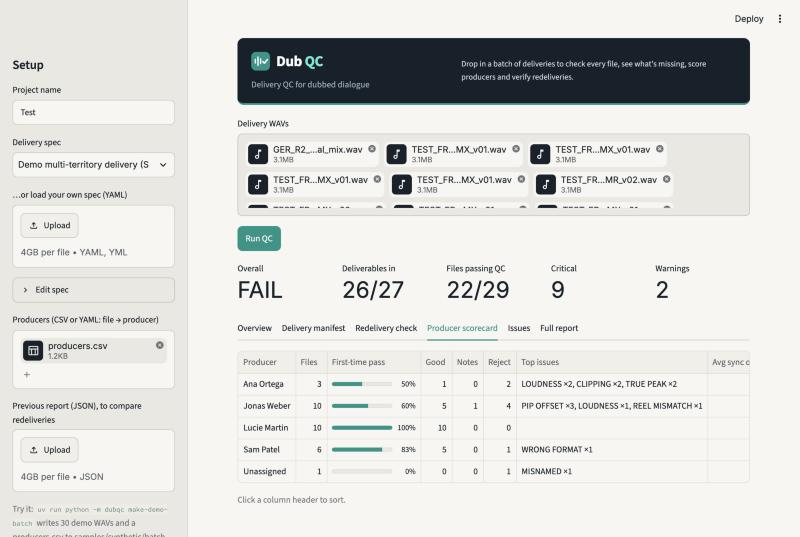
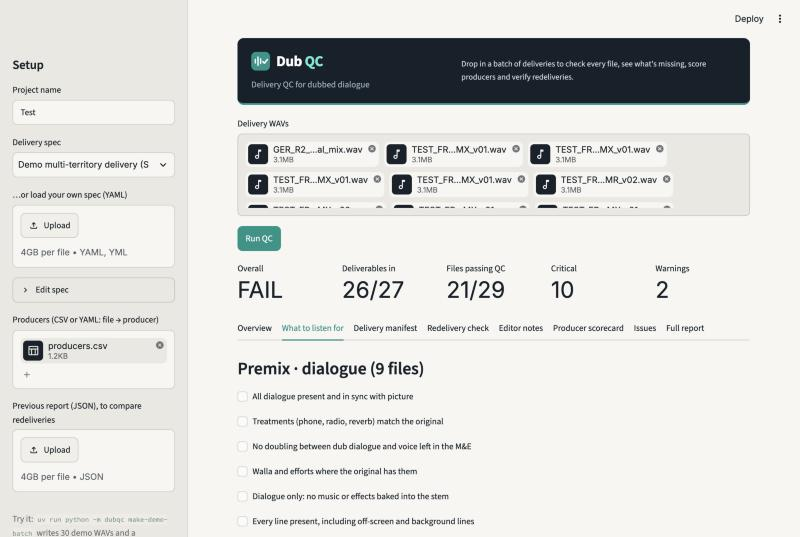
README: the QC workflow, new features, script check under Next up

diff --git a/README.md b/README.md
@@ -2,49 +2,59 @@
 
 **Delivery QC for dubbed dialogue.**
 
-Dub QC checks dubbed audio deliveries automatically and tells you, with timecodes, what's wrong, what's missing and who needs support. It replaces a manual listen-through, a QC checklist and a delivery-tracking spreadsheet.
+Dub QC runs the technical QC on a dubbed film's audio at every stage, from raw dialogue to final deliverables. It flags every problem with a timecode, tracks what's still outstanding across territories, versions and redeliveries, and tells whoever is doing the QC pass exactly where to listen.
 
-![Dub QC report for a 3-territory batch: delivery status by territory, manifest grid, redelivery check and producer scorecard](docs/screenshots/report_top.png)
+![Dub QC report for a 3-territory batch: delivery status by territory, listening checklist, manifest grid and redelivery check](docs/screenshots/report_top.png)
 
 ## The problem
 
-A dubbed release arrives as dozens of files. Each territory sends dialogue, music and effects stems for every reel, often through different freelance producers, and often in several versions. QC by hand is slow and things slip through:
+Every dubbed version of a film passes through editorial and mixing several times before it's delivered:
 
-- **Files that won't load or play correctly:** wrong sample rate, wrong bit depth, misnamed files.
-- **Technical faults that bounce a delivery:** loudness out of spec, true peak over the ceiling, clipped lines.
-- **Sync errors:** a track that's a few frames out from the sync pip onwards.
-- **Delivery gaps nobody notices until the deadline:** a missing reel, two "final" versions of the same stem, files that aren't on the delivery at all.
-- **Redeliveries that aren't checked properly:** v02 arrives, but did it fix v01's problems, or add new ones?
-- **No view across producers:** who delivers clean first time, and who keeps failing on the same thing.
+1. **Ingest.** Each territory sends its raw dialogue recordings.
+2. **Load.** Editors prepare the dialogue for the mix: tracklay, clean-up, missing-line (pickup) requests, and a load report back to the territory.
+3. **Premix (PMX):** mix → QC → fixes.
+4. **Printmaster (PMR):** mix → QC → fixes.
+5. **Final QC (FSS)** → fixes.
+6. **Deliverables.** The finished mix is made into every version the release needs (stereo, 5.1, 7.1, IMAX, Atmos, nearfield, broadcast R128), reeled for cinema or continuous for streaming. Each version has its own spec and timecode layout.
 
-Dub QC runs every check on every file and rolls the results up into a batch view that an operations team can act on.
+The music and effects (M&E) stems are QC'd too: a technical pass for faults, and a marker pass noting anything the dialogue editors need to know, such as walla, breaths or efforts already in the M&E.
+
+That's a lot of passes, files and formats, and every QC pass depends on someone listening for everything and knowing what to look for. Dub QC runs the technical checks automatically at every stage, points the QCer to exactly where to listen, and keeps the notes that matter attached to the right timecodes from one pass to the next.
 
 ## What it does
 
-### Per-file checks
+### Technical checks on every file
 
 | Check | What it looks for | Why it matters |
 |---|---|---|
-| **Naming** | `<TITLE>_<TERR>_<REEL>_<STEM>_<STAGE>_v<NN>.wav`, e.g. `TEST_SPC_R1_DX_PMX_v01.wav`. Says which part is wrong. | Misnamed files get loaded into the wrong reel or territory. |
+| **Naming** | `<TITLE>_<TERR>_<REEL>_<STEM>_<STAGE>[_<VERSION>]_v<NN>.wav`, e.g. `TEST_SPC_R1_DX_PMX_v01.wav` or `TEST_SPC_CONT_DX_PMR_R128_v01.wav`. Says which part is wrong. | Misnamed files get loaded into the wrong reel, territory or version. |
 | **Format** | Sample rate, bit depth and channels against the spec (default 48 kHz / 24-bit / mono). | A wrong format means a redelivery; a wrong sample rate drifts sync. |
-| **Loudness** | Integrated LUFS (EBU R128 by default, −23 ±1) and true peak (≤ −1 dBTP, 4× oversampled). | Out-of-spec loudness is rejected downstream. |
+| **Loudness and true peak** | Integrated LUFS and true peak (4× oversampled) against the limits for that file's delivery version. | Out-of-spec loudness is rejected downstream. |
 | **Clipping** | Runs of full-scale samples, with timecodes. | Clipping is baked in: the line has to be re-exported or re-recorded. |
-| **Sync pip** | The 1-frame 1 kHz pip 2 s before first frame of action, with the offset in frames. Each reel can have its own timecodes. | A track that's out from the pip onwards is the classic delivery error. |
-| **Pre-FFOA audio and noise floor** | Stray audio before picture starts, and noisy recordings. | Usually a slipped line or a poor recording environment. |
+| **Sync pip** | The 1-frame pip 2 s before first frame of action, with the offset in frames. Per-reel and continuous timecode layouts. | A track that's out from the pip onwards is the classic delivery error. |
+| **Pre-FFOA audio and noise floor** | Stray audio before picture starts, and noisy dialogue recordings. | Usually a slipped line or a poor recording environment. |
 
 Every file gets a rating (Good / Acceptable with notes / Reject) and a short load report to send back to the territory.
 
-### Batch checks
+### Built around the workflow
 
-- **Delivery manifest.** The spec lists what should arrive (territories × reels × stems). Dub QC compares that with what did arrive and reports **Missing**, **Duplicate** (two versions of the same deliverable with no clear latest) and **Unexpected** files, one line per territory: *"SPC: 8/9 delivered, R3 DX missing"*.
-- **Redelivery check.** When v02 arrives, it's re-checked and compared with v01. Every earlier issue is marked **Fixed** or **Still present**, and anything else is flagged as a **New issue**, all with timecodes. The earlier version can be in the same batch, or come from a previous run's JSON report.
-- **Producer scorecard.** Tag each file with the producer who made it (a simple CSV). For each producer you get files delivered, first-time pass rate, Good/Notes/Reject counts, top issue types, average sync offset, and a one-line summary such as *"Strong on clipping and noise; 3 of 4 rejects are sync pip, so sync training needed."*
+- **Delivery versions.** One spec holds a profile per version (theatrical, nearfield, broadcast R128 and so on), each with its own loudness, peak and format limits. Each file is checked against the version in its name, so the same mix can pass as theatrical and fail as R128.
+- **Stage-aware QC.** Raw dialogue, premix, printmaster and FSS each run the checks that make sense at that stage (raw dialogue isn't loudness-checked, for example). Dialogue and M&E stems get different checks too.
+- **"What to listen for."** Each report lists the listening checks for that pass, by stage and stem (e.g. *"Every line present, including off-screen and background lines"*), alongside what Dub QC has already checked automatically.
+- **M&E marker pass.** Music and effects stems get the technical checks plus a voice detector that flags likely walla, breaths, efforts or stray dialogue as timecoded markers, so dialogue editors don't double them with the dub. It picks up the syllable-rate rhythm of speech, which music and effects rarely have.
+- **Editor notes.** Timecoded notes in a simple CSV (*"off-screen line: guard calls out from behind the door"*). They carry into every later pass: each note is checked in every file it applies to, and flagged if the noted line has gone quiet.
+
+### Across a whole delivery
+
+- **Delivery manifest.** The spec lists what should arrive (territories × reels × stems × versions). Dub QC reports **Missing**, **Duplicate** (no clear latest version) and **Unexpected** files, one line per territory: *"SPC: 8/9 delivered, R3 DX missing"*.
+- **Redelivery check.** When v02 arrives it's re-checked and compared with v01. Every earlier issue is marked **Fixed** or **Still present**, and anything else is flagged as a **New issue**, all with timecodes.
+- **Producer scorecard.** Map files to the producer who made them (a simple CSV) to see files delivered, first-time pass rate, Good/Notes/Reject counts, top issue types, average sync offset, and a one-line summary such as *"3 of 5 rejects are sync pip, so sync training needed."*
 
 ### Outputs
 
-- **HTML report:** summary, manifest grid, redelivery check, sortable scorecard, issue table with suggested fixes, and waveforms with issue markers.
+- **HTML report:** summary, listening checklist, manifest grid, redelivery check, editor notes, sortable scorecard, issue table with suggested fixes, and waveforms with issue markers.
 - **JSON:** machine-readable, and usable as the baseline for the next redelivery check.
-- **Marker list:** tab-separated timecode / name / comment, for dropping QC notes into an editing session.
+- **Marker list:** tab-separated timecode / name / comment, covering QC issues, M&E markers and editor notes, for dropping into an editing session.
 
 <details>
 <summary>Full report</summary>
@@ -72,18 +82,18 @@ uv run streamlit run app.py
 **Command line:**
 
 ```bash
-uv run python -m dubqc check deliveries/*.wav --spec samples/demo_batch/spec.yaml --producers samples/demo_batch/producers.csv
+uv run python -m dubqc check deliveries/*.wav --spec samples/demo_batch/spec.yaml --producers producers.csv --notes editor_notes.csv
 ```
 
 Add `--baseline reports/<earlier>_report.json` to compare redeliveries against an earlier run. Reports are written to `reports/`.
 
-**Try it with demo data.** This generates a synthetic 30-file batch (3 territories × 3 reels × DX/MX/FX, four made-up producers, with planted problems):
+**Try it with demo data.** This generates a synthetic 30-file batch (3 territories × 3 reels × DX/MX/FX, four made-up producers, editor notes and planted problems):
 
 ```bash
 uv run python -m dubqc make-demo-batch
 ```
 ```bash
-uv run python -m dubqc check samples/synthetic/batch/*.wav --spec samples/demo_batch/spec.yaml --producers samples/synthetic/batch/producers.csv --project Test
+uv run python -m dubqc check samples/synthetic/batch/*.wav --spec samples/demo_batch/spec.yaml --producers samples/synthetic/batch/producers.csv --notes samples/synthetic/batch/editor_notes.csv --project Test
 ```
 
 **Tests:**
@@ -94,11 +104,11 @@ uv run pytest
 
 ## Configuration
 
-Everything lives in the spec YAML: loudness and peak limits, format, naming pattern, per-reel timecodes, pip tolerance, the expected deliverables, and the redelivery matching tolerance. See [samples/demo_batch/spec.yaml](samples/demo_batch/spec.yaml) (multi-territory) and [samples/single_reel/spec.yaml](samples/single_reel/spec.yaml) (single reel).
+Everything lives in the spec YAML: loudness and peak limits, delivery versions, format, naming pattern, reel and continuous timecodes, pip tolerance, which checks run at each stage and on each stem, the listening checklists, the expected deliverables, and the detector and notes thresholds. See [samples/demo_batch/spec.yaml](samples/demo_batch/spec.yaml) (multi-territory) and [samples/single_reel/spec.yaml](samples/single_reel/spec.yaml) (single reel). Sample [producers](samples/demo_batch/producers.csv) and [editor notes](samples/demo_batch/editor_notes.csv) files are alongside.
 
 ## Next up
 
-- Speech-to-text script check: missing, extra and changed lines against the dub script
+- **Script check.** Load the script, transcribe the audio, and confirm every scripted line is accounted for, including off-screen lines, flagging unscripted or changed lines too
 - Line-by-line sync drift against the original version
 - Auto-drafted pickup requests for missing lines
 - Turnaround tracking: due dates per deliverable, and late deliveries on the scorecard
@@ -106,6 +116,6 @@ Everything lives in the spec YAML: loudness and peak limits, format, naming patt
 
 ## About the demo data
 
-All audio, titles, territories and producer names in this repo are synthetic or made up. The demo "dialogue" is shaped noise with a real 1-frame sync pip, generated by [dubqc/demo.py](dubqc/demo.py).
+All audio, titles, territories, producer names and notes in this repo are synthetic or made up. The demo dialogue is shaped noise, the music is a chord bed and the effects are ambience with impacts, all with a real 1-frame sync pip. They're generated by [dubqc/demo.py](dubqc/demo.py).
 
 Built with Python, numpy, scipy, soundfile, pyloudnorm and Streamlit.
